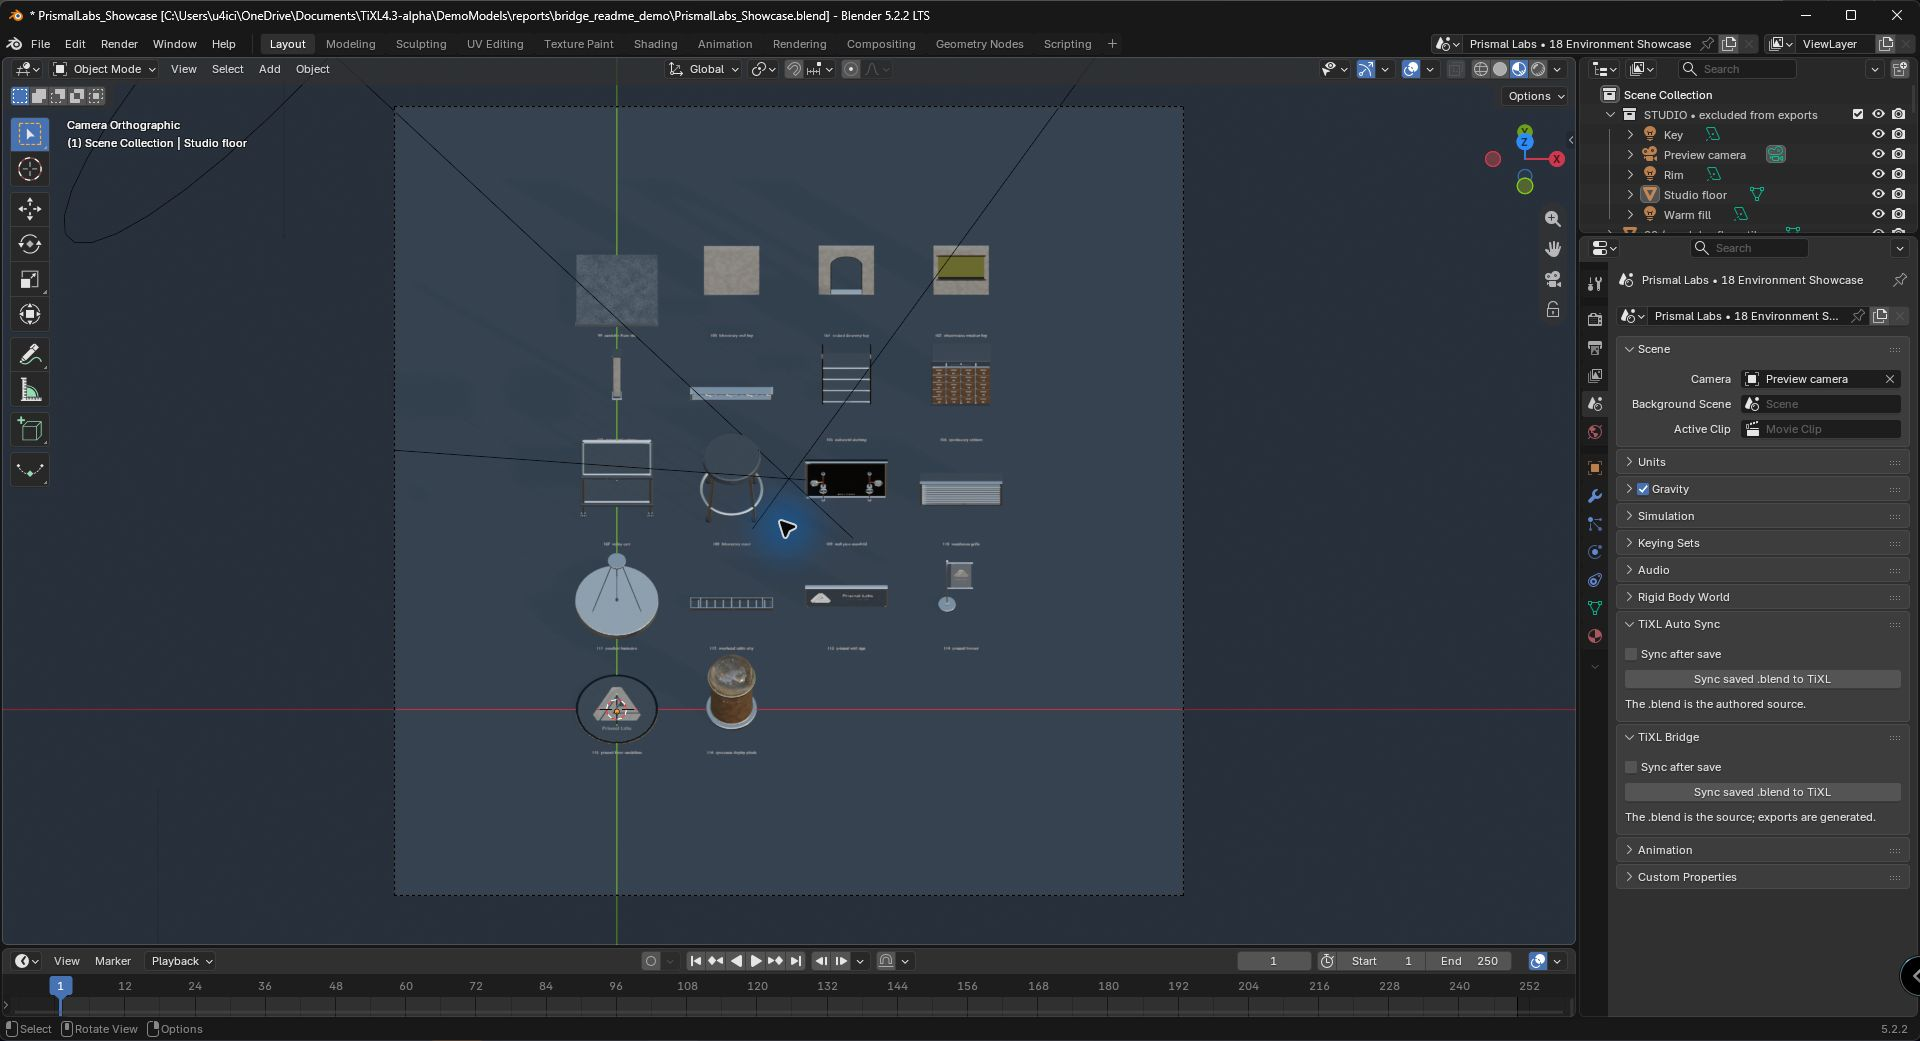
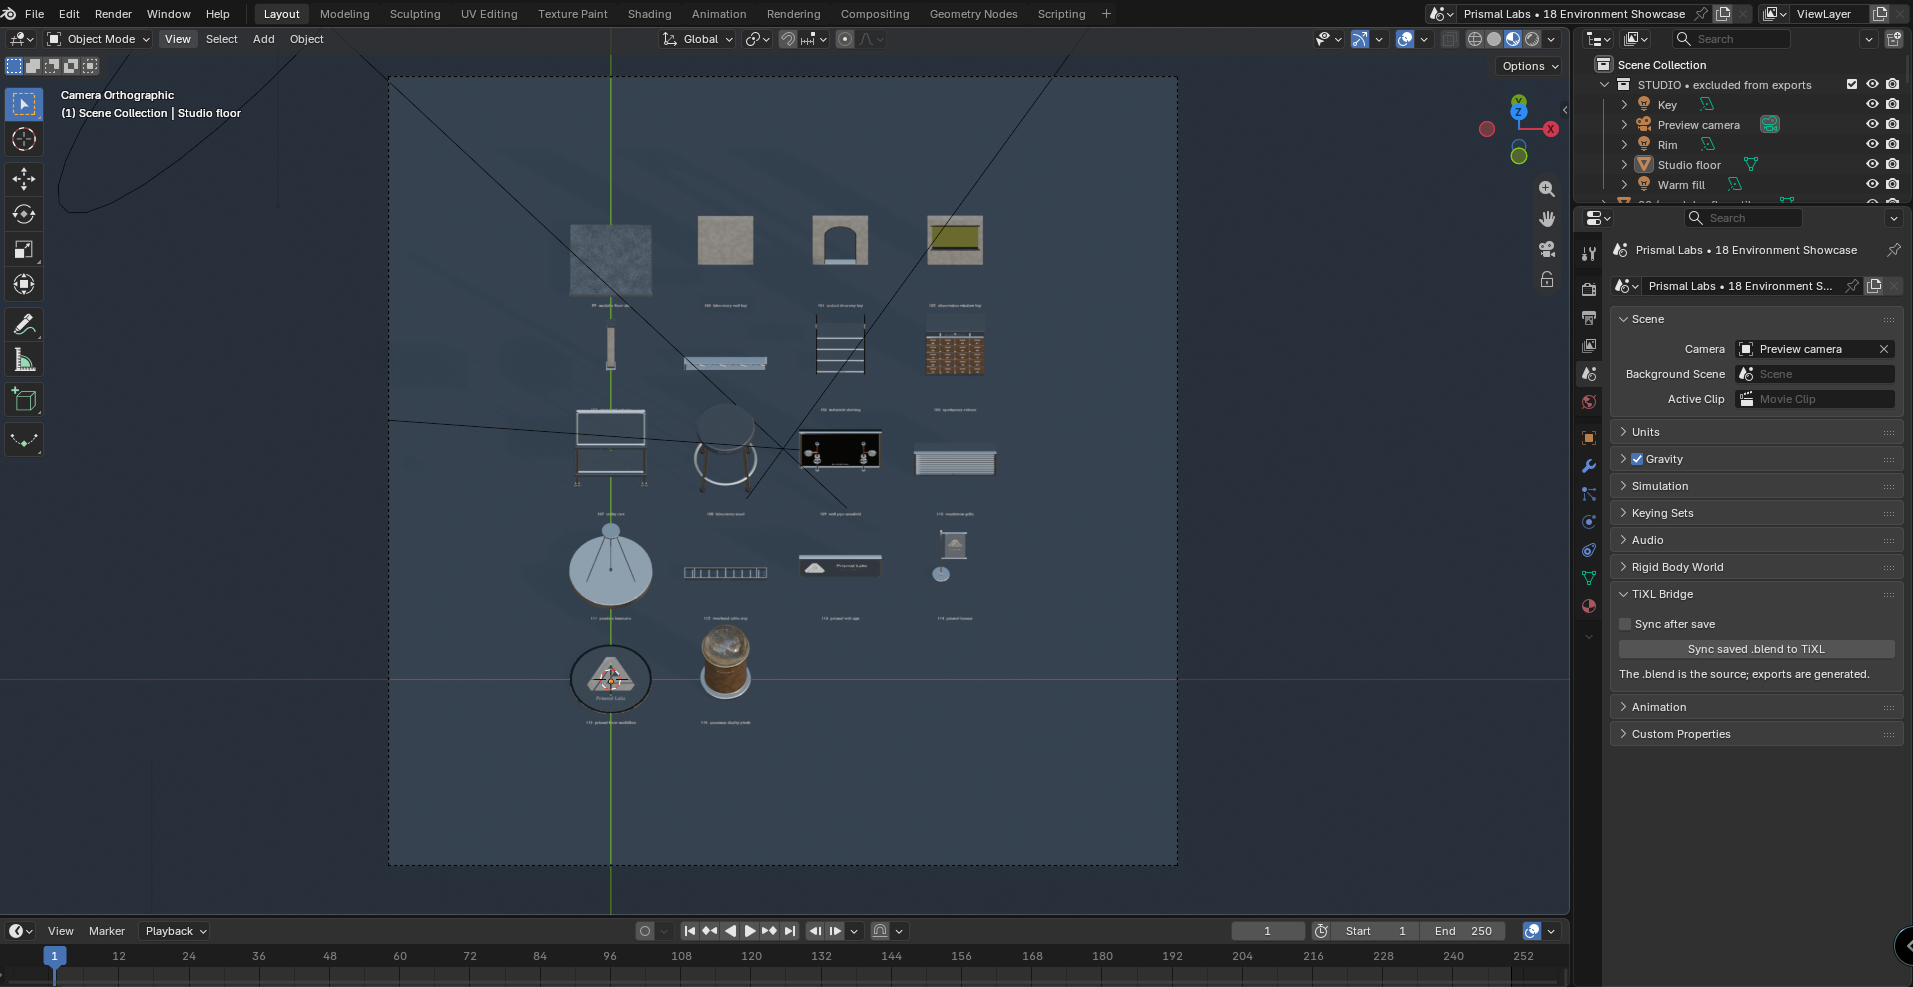
Use updated Blender screenshots in README

diff --git a/README.md b/README.md
@@ -50,7 +50,11 @@ In Blender, open the **Scene Properties → TiXL Bridge** panel and run **Sync s
 
 ![Blender scene with the TiXL Bridge controls](docs/screenshots/blender-bridge.png)
 
-*Blender: the saved source scene and the bridge controls used to sync it.*
+*Blender: the saved scene and the controls used to sync it to TiXL.*
+
+![Blender add-on preferences for the TiXL Bridge](docs/screenshots/blender-preferences.png)
+
+*Blender preferences: select the TiXL operator project and editor folder, then choose Auto, Offline, or Debug bridge mode.*
 
 ![TiXL graph generated from the Blender scene](docs/screenshots/tixl-generated-graph.png)
 
